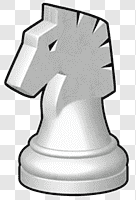
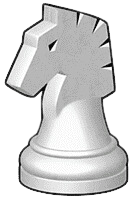
Cambio de Vista

Changed region(s): [[0.0, 0.0, 1.0, 1.0]]

diff --git a/src/vista/VistaTablero.java b/src/vista/VistaTablero.java
@@ -4,18 +4,16 @@ import javax.swing.ImageIcon;
 import javax.swing.JButton;
 import javax.swing.JFrame;
 import javax.swing.JPanel;
-
-import modelo.fichas.Fichas;
-
 import java.awt.*;
 import java.util.ArrayList;
+
+import modelo.fichas.Fichas;
 
 public class VistaTablero extends JFrame {
 
     public JButton[][] cuadro;
 
     public VistaTablero() {
-
         initComponents();
     }
 
@@ -34,7 +32,7 @@ public class VistaTablero extends JFrame {
                 if ((i + j) % 2 == 0) {
                     cuadro[i][j].setBackground(new Color(222, 184, 135));
                 } else {
-                    cuadro[i][j].setBackground(new Color(139, 0, 0));
+                    cuadro[i][j].setBackground(new Color(210, 180, 140));
                 }
                 panelTablero.add(cuadro[i][j]);
             }
@@ -48,31 +46,37 @@ public class VistaTablero extends JFrame {
 
     public void agregarFichas() {
         for (int i = 0; i < 8; i++) {
-            cuadro[1][i].setIcon(new ImageIcon("src/img/peon_blanco.png")); 
-            cuadro[6][i].setIcon(new ImageIcon("src/img/peon_negro.png")); 
+            cuadro[1][i].setIcon(escalarImagen("src/img/peon_blanco.png"));
+            cuadro[6][i].setIcon(escalarImagen("src/img/peon_negro.png"));
         }
 
-        cuadro[0][0].setIcon(new ImageIcon("src/img/torre_blanco.png")); 
-        cuadro[0][7].setIcon(new ImageIcon("src/img/torre_blanco.png")); 
-        cuadro[0][1].setIcon(new ImageIcon("src/img/caballo_blanco.png")); 
-        cuadro[0][6].setIcon(new ImageIcon("src/img/caballo_blanco.png")); 
-        cuadro[0][2].setIcon(new ImageIcon("src/img/alfil_blanco.png")); 
-        cuadro[0][5].setIcon(new ImageIcon("src/img/alfil_blanco.png")); 
-        cuadro[0][3].setIcon(new ImageIcon("src/img/reina_blanco.png")); 
-        cuadro[0][4].setIcon(new ImageIcon("src/img/rey_blanco.png")); 
+        cuadro[0][0].setIcon(escalarImagen("src/img/torre_blanco.png"));
+        cuadro[0][7].setIcon(escalarImagen("src/img/torre_blanco.png"));
+        cuadro[0][1].setIcon(escalarImagen("src/img/caballo_blanco.png"));
+        cuadro[0][6].setIcon(escalarImagen("src/img/caballo_blanco.png"));
+        cuadro[0][2].setIcon(escalarImagen("src/img/alfil_blanco.png"));
+        cuadro[0][5].setIcon(escalarImagen("src/img/alfil_blanco.png"));
+        cuadro[0][3].setIcon(escalarImagen("src/img/dama_blanco.png"));
+        cuadro[0][4].setIcon(escalarImagen("src/img/rey_blanco.png"));
 
-        cuadro[7][0].setIcon(new ImageIcon("src/img/torre_negro.png")); 
-        cuadro[7][7].setIcon(new ImageIcon("src/img/torre_negro.png")); 
-        cuadro[7][1].setIcon(new ImageIcon("src/img/caballo_negro.png")); 
-        cuadro[7][6].setIcon(new ImageIcon("src/img/caballo_negro.png")); 
-        cuadro[7][2].setIcon(new ImageIcon("src/img/alfil_negro.png")); 
-        cuadro[7][5].setIcon(new ImageIcon("src/img/alfil_negro.png")); 
-        cuadro[7][3].setIcon(new ImageIcon("src/img/reina_negro.png")); 
-        cuadro[7][4].setIcon(new ImageIcon("src/img/rey_negro.png")); 
+        cuadro[7][0].setIcon(escalarImagen("src/img/torre_negro.png"));
+        cuadro[7][7].setIcon(escalarImagen("src/img/torre_negro.png"));
+        cuadro[7][1].setIcon(escalarImagen("src/img/caballo_negro.png"));
+        cuadro[7][6].setIcon(escalarImagen("src/img/caballo_negro.png"));
+        cuadro[7][2].setIcon(escalarImagen("src/img/alfil_negro.png"));
+        cuadro[7][5].setIcon(escalarImagen("src/img/alfil_negro.png"));
+        cuadro[7][3].setIcon(escalarImagen("src/img/dama_negro.png"));
+        cuadro[7][4].setIcon(escalarImagen("src/img/rey_negro.png"));
+    }
+
+    public ImageIcon escalarImagen(String ruta) {
+        ImageIcon icono = new ImageIcon(ruta);
+        Image imagen = icono.getImage();
+        Image imagenEscalada = imagen.getScaledInstance(70, 70, Image.SCALE_SMOOTH);
+        return new ImageIcon(imagenEscalada);
     }
 
     public void resaltarMovimientos(Fichas f) {
-
         resetearColores();
 
         ArrayList<String> movimientos = f.getLista();
@@ -81,7 +85,6 @@ public class VistaTablero extends JFrame {
             String[] pos = movimiento.split(" ");
             int newX = pos[0].charAt(0) - 'a';
             int newY = Integer.parseInt(pos[1]);
-            System.out.println(newX+" "+newY);
             cuadro[newX][newY].setBackground(Color.YELLOW);
         }
     }
@@ -93,27 +96,26 @@ public class VistaTablero extends JFrame {
                 if ((i + j) % 2 == 0) {
                     cuadro[i][j].setBackground(new Color(222, 184, 135));
                 } else {
-                    cuadro[i][j].setBackground(new Color(139, 0, 0));
+                    cuadro[i][j].setBackground(new Color(210, 180, 140));
                 }
             }
         }
     }
 
-    public void actualizar(int posX, int posY, Fichas ficha){
-        
+    public void actualizar(int posX, int posY, Fichas ficha) {
         getBoton(posY, posX).setIcon(obtenerIconoFicha(ficha)); // Actualizar icono de la ficha en la vista
     }
 
-    public void eliminarDeVista(int posX, int posY){
+    public void eliminarDeVista(int posX, int posY) {
         getBoton(posY, posX).setIcon(null);
     }
 
     private ImageIcon obtenerIconoFicha(Fichas ficha) {
         String color = ficha.getColor();
-        String tipo = ficha.getClass().getSimpleName().toLowerCase(); // Obtener el nombre del tipo de ficha en minúsculas
+        String tipo = ficha.getClass().getSimpleName().toLowerCase(); // Obtener el nombre del tipo de ficha en
+                                                                      // minúsculas
         String nombreIcono = "src/img/" + tipo + "_" + color + ".png"; // Nombre del archivo de la imagen de la ficha
-        
-        return new ImageIcon(nombreIcono);
+        return escalarImagen(nombreIcono);
     }
 
 }

diff --git a/src/modelo/Tablero/Tablero.java b/src/modelo/Tablero/Tablero.java
@@ -42,7 +42,7 @@ public class Tablero {
         jugador1.fichas.add(new Alfil(2, 0, "blanco"));
         jugador1.fichas.add(new Alfil(5, 0, "blanco"));
         jugador1.fichas.add(new Dama(3, 0, "blanco"));
-        jugador1.fichas.add(new Rey(4, 0, "negro"));
+        jugador1.fichas.add(new Rey(4, 0, "blanco"));
     }
 
     public void inicializarFichasEquipo2() {
